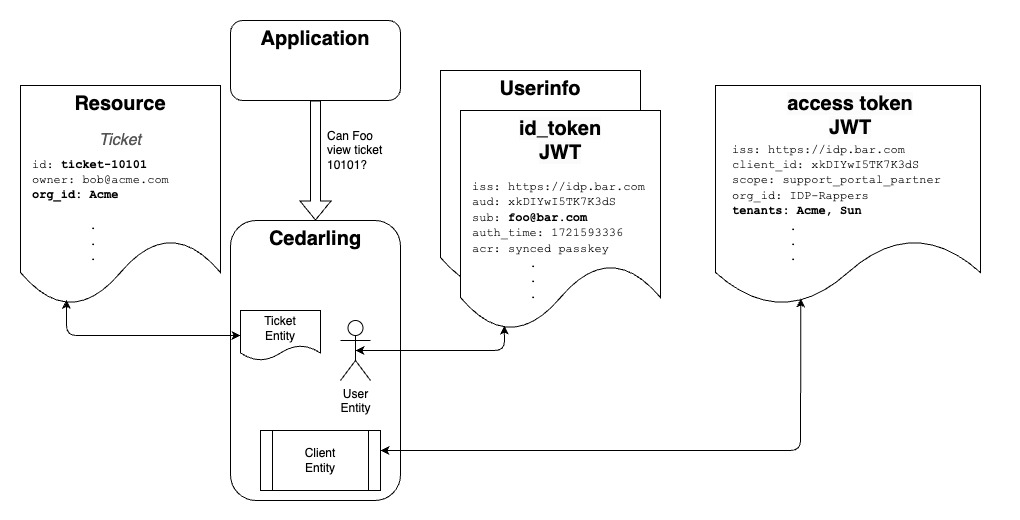
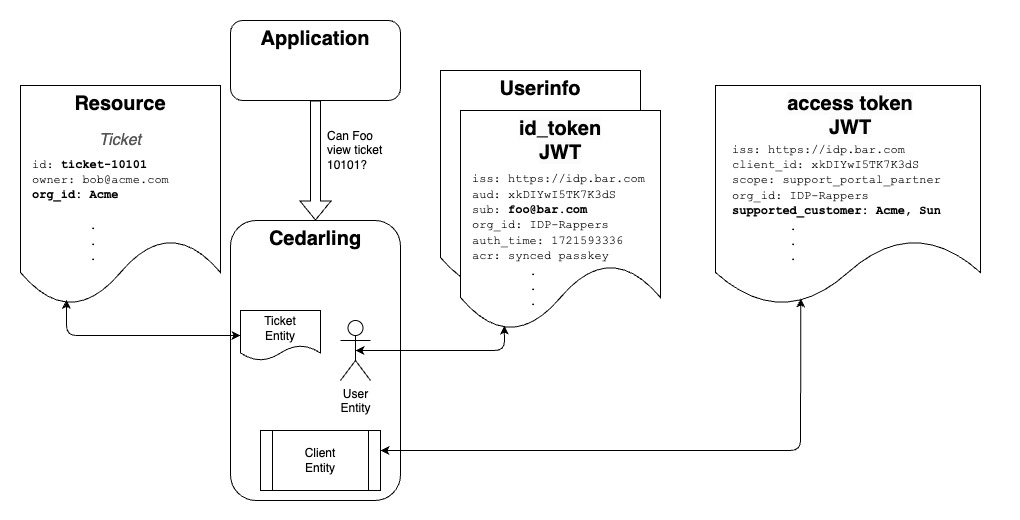
docs(jans-lock): cedarling / lock doc updates (#9124)
* Lock / Cedarling doc updates
~~~~~~~~~~~~~~~~~~~~~~~~~~~~~~~~~~~~~~~~~~~~~~~

* fix(docs): proofreading

---------

Former-commit-id: d7902cdb6c40125be357edc8838db16937d6e30e

Changed region(s): [[0.4559, 0.3385, 0.6382, 0.5231], [0.699, 0.4, 0.9422, 0.4308]]

diff --git a/docs/admin/lock/cedarling.md b/docs/admin/lock/cedarling.md
@@ -10,64 +10,72 @@ tags:
 ## What is Cedar
 
 [Cedar](https://www.cedarpolicy.com/en) was invented by Amazon for their 
-[Verified Permission](https://aws.amazon.com/verified-permissions/) service. 
-Cedar enables developers to create complex, contextual policies without cluttering application code 
-with lots of `if` - `then` statements. Externalizing policies makes it easier to audit the security 
-controls of an application.  Cedar is a deterministic policy engine--if the schema
-and policies are validated, the engine will always return `permit` or `forbid`.
+[Verified Permission](https://aws.amazon.com/verified-permissions/) service. Cedar enables 
+developers to create complex, contextual policies without cluttering application code with lots 
+of `if` - `then` statements. Externalizing policies also makes it easier to audit the security 
+controls and decisions of an application.  
 
-Cedar uses the **PARC** syntax: **P**rincipal, **A**ction, **R**esource, **C**ontext. For example, 
-you may have a policy that says *Admins* can *write* to the *config* folder. In this example, the 
-*Admin* Role is the Principal, *write* is the Action, and the *config* folder is the Resource. The 
-Context is used to specify information about the enivironment, like the time of day or network address. 
-Like RBAC, Cedar is deterministic. But it's also less reductive then RBAC, and in fact enables 
-security admins to express quite powerful policies.
+Cedar is a deterministic policy engine--if the schema and policies are validated, the engine will 
+always return `allow` or `deny` for an authorization request. Cedar uses the **PARC** syntax: 
+**P**rincipal, **A**ction, **R**esource, **C**ontext. For example, you may have a policy that says
+*Admins* can *write* to the */config* folder. The *Admin* Role is the Principal, *write* is the 
+Action, and the */config* folder is the Resource. The Context is used to specify information about
+the enivironment, like the time of day or network address. Cedar is a compromise: it's less reductive 
+then RBAC but still deterministic; at the same time, it's less flexible then a full programming 
+language, but still expressive.
 
 ![](../../assets/lock-cedarling-diagram-3.jpg)
 
 ## What is the Cedarling
 
-The Cedarling, as its name suggests, enables you to define the security rules for your application 
-in Cedar policy syntax. Optionally, the Cedarling can validate JWTs from a list of trusted IDPs--
-both the JWT signature and the current status. The Cedarling rapidly evaluates authorization requests
-because it has all the policies and data it needs to make a local decision.
+The Cedarling is a performant local authorization service that runs the Rust Cedar Engine. 
+Cedar policies and schema are loaded at startup from a locally cached "Policy Store". In simple 
+terms, the Cedarling returns the answer: should the application allow this action on this resource
+given these JWT tokens. "Fit for purpose" policies help developers build a better user experience. 
+For example, why display form fields that a user is not authorized to see? The Cedarling is a more 
+productive and flexible way to handle authorization. 
 
-Architecturally, the Cedarling is a local, autonomous Policy Decision Point, or "PDP", distributed 
-as a WebAssembly ("WASM") component. WASM components run directly in a browser. They can also run 
-as a cloud native function. 
+In addition to authorization, the Cedarling can perform two more important jobs: (1) it can 
+validate JWT tokens; (2) it can create an audit log of all authorizations permitted and denied.
 
-A key feature of the Cedarling is to log all `permit` or `forbid` decisions returned to the 
-application. It can also log the validation of tokens. In an enterprise deployment, this audit
-log is sent for central archiving.
+### Authorization 
 
-For developers, the Cedarling is a more productive and flexible way to handle authz. The Cedarling maps
-Roles, and provides RBAC out-of-the-box. But developers can also express a variety of policies beyond
-the limitations of "person with role has access". For example, what if you want to allow access only 
-to people who use a certain type of passkey? Or what if you want to incorporate a fraud score, and 
-elevate security for riskier transactions. Or maybe, partners can view tickets for the customers 
-they serve? These policies are easily and rapidly evaluated by a Cedar policy engine.
+The Cedarling runs in the browser as a WebAssembly ("WASM") component, in a mobile application, 
+or in the cloud. Although it runs at the edge--even embedded in a JavaScript browser application--
+the Cedarling is not just for front end security. Developers can use it for backend applications
+and even API gateways--multilayered security is best.
+
+The Cedarling provides RBAC out-of-the-box. Developers can also express a variety of policies 
+beyond the limitations of "person with role has access". For example, you can allow access only to
+users who authenticate with a certain type of passkey or incorporate a fraud score to elevate 
+security for riskier transaction. These policies are easily and rapidly evaluated by the Cedarling.
+
+Architecturally, the Cedarling is an autonomous Policy Decision Point, or "PDP". The Cedarling 
+rapidly evaluates authorization requests because it has all the policies and data it needs to make
+a local decision. A key feature of the Cedarling is to log all `allow` or `deny` decisions returned
+to the application. In an enterprise deployment, this audit log is sent for central archiving.
 
 ![](../../assets/lock-cedarling-diagram-1.jpg)
 
-The Cedarling loads its Policy Store during initialization, as a static JSON file or fetched via REST. 
+The Cedarling loads its Policy Store during initialization as a static JSON file or fetched via HTTPS. 
 The Policy Store contains the Cedar Policies, Cedar Schema, and optionally, a list of the Trusted IDPs. 
-Developers may consider the Cedarling Policy Store as part of the code. The Cedar schema for resources 
-aligns with the application model. The policies control the expected functionality, and
-need to be unit tested--including both positive and negative tests. 
+Developers may consider the Cedarling Policy Store as part of the code. While there is some core schema,
+developers will frequently need to add actions and resources that are specific for their application. 
+For example, a developer writing a support ticket application might want to define an action called 
+"Close" or "Reply", and an entity type called "Ticket". 
 
-Where does the Cedarling get the data for policy evaluation? First, the request includes the resource
-details. Based on this, the Cedarling creates the Resource entity. The Principal entities 
-are derived from the JWTs--the combined OpenID id_token and Userinfo tokens enable the Cedarling to 
-create a User and Role entities; the OAuth access token is used to create a Client entity. 
-Hypothetically, you could also pass the roles in an access token claim. But a user claim for roles 
-is preferred.
+Where does the Cedarling get the data for policy evaluation? Or in Cedar jargon, where do the 
+entities come from? The application request includes the Resource data--remember the application 
+is asking if it can perform a certain action on a certain resource. The Principal entities are 
+derived from the JWTs--the combined OpenID id_token and  Userinfo tokens enable the Cedarling to 
+create a User and Role entities; the OAuth access token is used to create a Client entity.
 
 ![](../../assets/lock-cedarling-diagram-2.jpg)
 
-The id_token represents a user authentication event. The access token represents a 
+The id_token JWT represents a user authentication event. The access token JWT represents a 
 client authentication event. These tokens contain other interesting contextual data. An OpenID 
-Connect id_token JWT tells you who authenticated, when they authenticated, how they authenticatated, 
-and optionally other claims like the User's roles. An OAuth Access Token JWT can tell you information 
+Connect id_token tells you who authenticated, when they authenticated, how they authenticatated, 
+and optionally other claims like the User's roles. An OAuth access token  can tell you information 
 about the software that obtained the JWT, its extent of access as defined by the OAuth Authorization Server 
 (*i.e.* the values of the `scope` claim), or other claims--domains frequently enhance the access token to
 contain business specific data needed for policy evaluation.
@@ -104,7 +112,7 @@ input = {
 decision_result = authz(input)
 ```
 
-## Cedarling Token Validation
+### JWT Validation
 
 Optionally, the Cedarling can validate the signatures of the JWTs for developers. To enable this, 
 set the `CEDARLING_JWT_VALIDATION` bootstrap property to `True`. For testing, developers can set 
@@ -132,6 +140,10 @@ Here is a summary of the ways the Cedarling may validate a JWT, depending on you
 
 ![](../../assets/lock-cedarling-diagram-4.jpg)
 
+### Audit Logs
+
+The audit log contain a record of all a Cedarling's decisions and token validations. In an enterprise
+deployment, logs are sent to the Lock Server `/audit` endpoint for central archiving.
 
 ## Cedarling Policy Store
 
@@ -146,6 +158,7 @@ The JSON schema looks like this:
 
 ```
 {
+    "app_id": "...",
     "policies": "...",
     "schema": "...",
     "trusted_idps": [...]
@@ -196,7 +209,7 @@ schema and policies. The eaisest way to author your policy store is to use the P
 trusted IDPs and to publish a policy store to a Github repository.
 
 
-## Cedarling Bootstrap Properties
+## Cedarling Properties
 
 These Bootstrap Properties control default application level behavior.
 

diff --git a/docs/admin/lock/README.md b/docs/admin/lock/README.md
@@ -19,21 +19,21 @@ A Lock topology has three software components:
 ("WASM") application that runs the 
 [Amazon Rust Cedar Engine](https://github.com/cedar-policy/cedar) and 
 validates JWTs
-2. [Lock Master](./lock-master.md): a Java Weld application that connects 
+2. [Lock Server](./lock-server.md): a Java Weld application that connects 
 ephemeral Cedarlings to the enterprise
 3. Jans Auth Server: which provides the OAuth and OpenID services
 
-![](../../assets/lock-wasm-master-OP.jpg)
+![](../../assets/lock-wasm-lock-server-OP.jpg)
 
 Lock is designed for domains that deploy a **network of Cedarlings**. 
 Communication in this Lock topology 
-is bi-directional. Cedarlings can send information to the Lock Master, and 
-the Lock Master can push 
-updates to the Cedarlings. Notifications from the Lock Master to the Cedarlings
+is bi-directional. Cedarlings can send information to the Lock Server, and 
+the Lock Server can push 
+updates to the Cedarlings. Notifications from the Lock Server to the Cedarlings
  are connectionless--
 a Cedarling subscibes to event notifications using 
 [Server Sent Events](https://html.spec.whatwg.org/multipage/server-sent-events.html#server-sent-events) 
-or "SSE". Requests from the Cedarling to the Lock Master are sent via HTTP Post
+or "SSE". Requests from the Cedarling to the Lock Server are sent via HTTP Post
  to OAuth protected endpoints. 
 
 ## Authz Theoretical Background
@@ -60,7 +60,7 @@ Jans Lock aligns with this model:
 | PIP | JWT tokens | Contain data to instantiate entities |
 | PEP | Application | Must rely on Cedarling for decision |
 | PAP | Jans Config API | Endpoints for Lock admin configuration |
-| PRP | Lock Master | Endpoints to publish Policy Store and other PDP configuration |
+| PRP | Lock Server | Endpoints to publish Policy Store and other PDP configuration |
 
 ## Policy Store
 
@@ -129,7 +129,7 @@ is no data for the policies to evaluate. The Cedarling creates the Resource and
 
 ## More information
 
-* Lock Master configuration and operation [docs](./lock-master.md) 
+* Lock Server configuration and operation [docs](./lock-server.md) 
 * Cedarling [docs](./cedarling.md)
 * Cedarling [Readme](https://github.com/JanssenProject/jans/blob/main/jans-lock/cedarling/README.md)
 * Cedarling [Training](.) (coming soon)

diff --git a/docs/admin/lock/lock-server.md b/docs/admin/lock/lock-server.md
@@ -7,16 +7,15 @@ tags:
   - Cedarling
 ---
 
-# Lock Master
 
-## Jans Lock Overview
+# Jans Lock Overview
 
-Lock Master is a Java Weld application that connects ephemeral Cedarlings to the enterprise by 
+Lock Server is a Java Weld application that connects ephemeral Cedarlings to the enterprise by 
 providing a number of [endpoints](https://gluu.org/swagger-ui/?url=https://raw.githubusercontent.com/JanssenProject/jans/main/jans-lock/lock-master.yaml)
 
 ## Installation 
 
-Admins can deploy Lock Master as part of Jans Auth Server or as a stanalone 
+Admins can deploy Lock Server as part of Jans Auth Server or as a stanalone 
 web server.
 
 ## Configuration 
@@ -25,15 +24,15 @@ A list of server-level configuration properties.
 
 ## Logs 
 
-Lock Master creates the following logs:
+Lock Server creates the following logs:
 
-* lock_master_config.log
-* lock_master_audit.log -- RDBMS option
-* lock_master_jwt_status.log 
+* lock_server_config.log
+* lock_server_audit.log -- RDBMS option
+* lock_server_jwt_status.log 
 
 ## CLI / TUI 
 
-Admins can manage Lock Master runtime configuration and see activity using the 
+Admins can manage Lock Server runtime configuration and see activity using the 
 Jans CLI or TUI.
 
 - Create/Read/Update/Delete Policy Stores
@@ -44,5 +43,5 @@ Jans CLI or TUI.
 ## OAuth Security
 
 Cedarling should present an SSA during client registration. This will enable 
-Cedarlings to obtain access tokens with scopes for OAuth protected Lock Master 
+Cedarlings to obtain access tokens with scopes for OAuth protected Lock Server 
 endpoints.
